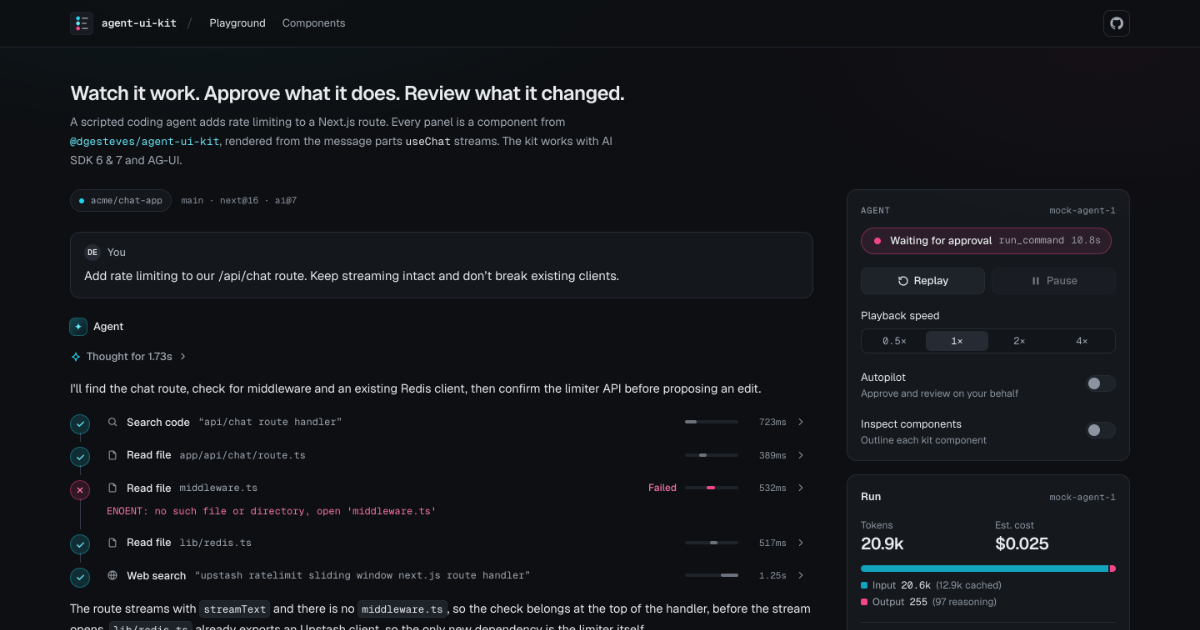
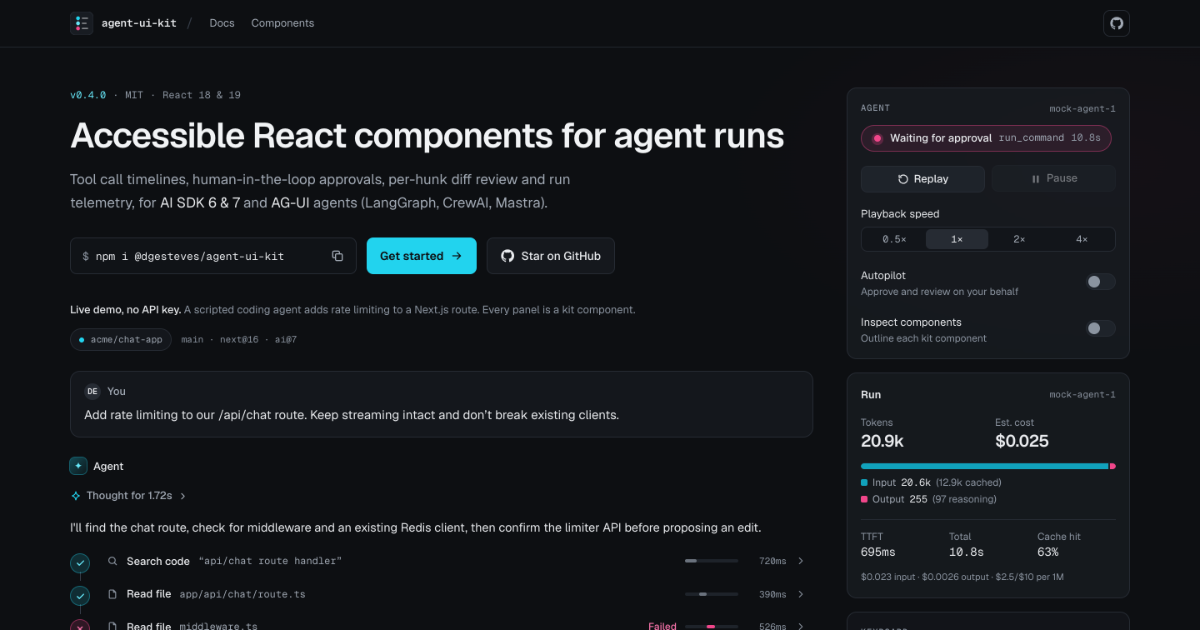
feat(playground): a link preview per page, a sitemap, and a title that says what it is
- The home page's title is now "agent-ui-kit: accessible React components
  for agent runs". Its preview is recaptured from the new headline.
- The docs pages, each component page and the components page draw their
  own preview with next/og: the page's title and summary in Geist, on the
  site's ink.
- sitemap.xml lists every page, and robots.txt points at it.
- The smoke test checks the new titles, the sitemap and robots.

diff --git a/examples/playground/lib/og.tsx b/examples/playground/lib/og.tsx
@@ -1,0 +1,114 @@
+import { readFileSync } from 'node:fs';
+import { join } from 'node:path';
+import { ImageResponse } from 'next/og';
+
+/*
+ * Link preview images for the docs and the components page, drawn when the site builds: the page's
+ * title and summary on the site's ink, in Geist. The home page's preview is a screenshot of the
+ * playground instead (app/opengraph-image.png, from `pnpm media og`).
+ */
+
+export const OG_SIZE = { width: 1200, height: 630 };
+
+// `next build` runs in examples/playground.
+const font = (path: string) => readFileSync(join(process.cwd(), 'node_modules/geist/dist/fonts', path));
+
+function Logo() {
+  return (
+    <svg width="44" height="44" viewBox="0 0 32 32">
+      <rect width="32" height="32" rx="8" fill="#181c22" stroke="#262b33" />
+      <path d="M11 9v14" stroke="#353c47" strokeWidth="2" strokeLinecap="round" />
+      <circle cx="11" cy="9" r="2.6" fill="#22d3ee" />
+      <circle cx="11" cy="16" r="2.6" fill="#67e8f9" />
+      <circle cx="11" cy="23" r="2.6" fill="#f0468a" />
+      <path d="M17 9h7M17 16h5M17 23h7" stroke="#e8eaed" strokeWidth="2" strokeLinecap="round" opacity=".5" />
+    </svg>
+  );
+}
+
+export function ogImage({
+  eyebrow,
+  title,
+  description,
+  code = false,
+}: {
+  eyebrow: string;
+  title: string;
+  description: string;
+  /** Set the title in Geist Mono, as a component's name. */
+  code?: boolean;
+}) {
+  return new ImageResponse(
+    <div
+      style={{
+        width: '100%',
+        height: '100%',
+        display: 'flex',
+        flexDirection: 'column',
+        padding: '64px 72px',
+        backgroundColor: '#0d0f12',
+        backgroundImage:
+          'radial-gradient(circle at 12% 0%, rgba(34, 211, 238, 0.16), transparent 46%), radial-gradient(circle at 96% 8%, rgba(240, 70, 138, 0.07), transparent 40%)',
+        color: '#e8eaed',
+        fontFamily: 'Geist',
+      }}
+    >
+      <div style={{ display: 'flex', alignItems: 'center', gap: 16 }}>
+        <Logo />
+        <span style={{ fontFamily: 'Geist Mono', fontSize: 26, fontWeight: 500, color: '#e8eaed' }}>agent-ui-kit</span>
+      </div>
+      <div style={{ display: 'flex', flexDirection: 'column', marginTop: 'auto' }}>
+        <span style={{ fontFamily: 'Geist Mono', fontSize: 24, color: '#67e8f9', letterSpacing: 1 }}>{eyebrow}</span>
+        <span
+          style={{
+            marginTop: 18,
+            fontFamily: code ? 'Geist Mono' : 'Geist',
+            fontSize: code ? 70 : 74,
+            fontWeight: code ? 500 : 600,
+            letterSpacing: code ? -1 : -2.5,
+            lineHeight: 1.05,
+            color: '#f1f3f5',
+          }}
+        >
+          {title}
+        </span>
+        <span
+          style={{
+            marginTop: 24,
+            maxWidth: 940,
+            fontSize: 30,
+            lineHeight: 1.4,
+            color: '#a1a9b4',
+          }}
+        >
+          {description}
+        </span>
+      </div>
+      <div
+        style={{
+          display: 'flex',
+          justifyContent: 'space-between',
+          alignItems: 'center',
+          marginTop: 48,
+          paddingTop: 28,
+          borderTop: '1px solid #262b33',
+          fontFamily: 'Geist Mono',
+          fontSize: 22,
+          color: '#8b94a0',
+        }}
+      >
+        <span>agent-ui-kit-demo.vercel.app</span>
+        <span style={{ color: '#c9d1d9' }}>AI SDK 6 & 7 · AG-UI</span>
+      </div>
+    </div>,
+    {
+      ...OG_SIZE,
+      fonts: [
+        { name: 'Geist', data: font('geist-sans/Geist-Regular.ttf'), weight: 400, style: 'normal' },
+        { name: 'Geist', data: font('geist-sans/Geist-SemiBold.ttf'), weight: 600, style: 'normal' },
+        { name: 'Geist Mono', data: font('geist-mono/GeistMono-Regular.ttf'), weight: 400, style: 'normal' },
+        { name: 'Geist Mono', data: font('geist-mono/GeistMono-Medium.ttf'), weight: 500, style: 'normal' },
+      ],
+    },
+  );
+}

diff --git a/examples/playground/app/layout.tsx b/examples/playground/app/layout.tsx
@@ -4,15 +4,17 @@ import type { ReactNode } from 'react';
 import { GeistMono } from './fonts';
 import './globals.css';
 
-const title = 'agent-ui-kit · playground';
+const title = 'agent-ui-kit: accessible React components for agent runs';
 const description =
-  'React components for agent-run UX: tool timelines, human-in-the-loop approvals, diff review and run telemetry, for AI SDK 6 & 7 and AG-UI. Watch a scripted agent run, no API key needed.';
+  'Tool call timelines, human-in-the-loop approvals, per-hunk diff review and run telemetry, for AI SDK 6 & 7 and AG-UI agents (LangGraph, CrewAI, Mastra). Watch a scripted agent run, no API key needed.';
 
-// app/opengraph-image.png is the top of docs/media/hero.png (`pnpm media og`).
+// app/opengraph-image.png is the top of docs/media/hero.png (`pnpm media og`); the docs and the
+// components page draw their own (lib/og.tsx).
 export const metadata: Metadata = {
   metadataBase: new URL('https://agent-ui-kit-demo.vercel.app'),
   title,
   description,
+  alternates: { canonical: '/' },
   openGraph: { type: 'website', siteName: 'agent-ui-kit', title, description, url: '/' },
   twitter: { card: 'summary_large_image', title, description },
 };

diff --git a/examples/playground/lib/metadata.ts b/examples/playground/lib/metadata.ts
@@ -1,9 +1,9 @@
 import type { Metadata } from 'next';
 
-// A page's own openGraph replaces the root's, file-based image included, so name the image again.
-const images = [{ url: '/opengraph-image.png', width: 1200, height: 630, alt: 'The agent-ui-kit playground mid-run.' }];
-
-/** Title, description, canonical URL and link previews for a page. */
+/**
+ * Title, description, canonical URL and link previews for a page. The preview image is each
+ * route's own opengraph-image (lib/og.tsx), which Next.js adds to `openGraph` and `twitter`.
+ */
 export function pageMetadata({
   title,
   description,
@@ -23,7 +23,7 @@ export function pageMetadata({
       canonical: path,
       ...(markdownPath ? { types: { 'text/markdown': markdownPath } } : {}),
     },
-    openGraph: { type: 'website', siteName: 'agent-ui-kit', title, description, url: path, images },
-    twitter: { card: 'summary_large_image', title, description, images },
+    openGraph: { type: 'website', siteName: 'agent-ui-kit', title, description, url: path },
+    twitter: { card: 'summary_large_image', title, description },
   };
 }

diff --git a/examples/playground/app/docs/components/[slug]/opengraph-image.tsx b/examples/playground/app/docs/components/[slug]/opengraph-image.tsx
@@ -1,0 +1,20 @@
+import { COMPONENTS, getComponent } from '@/lib/components';
+import { OG_SIZE, ogImage } from '@/lib/og';
+
+export const alt = 'An agent-ui-kit component';
+export const size = OG_SIZE;
+export const contentType = 'image/png';
+
+export function generateStaticParams() {
+  return COMPONENTS.map((c) => ({ slug: c.slug }));
+}
+
+export default async function Image({ params }: { params: Promise<{ slug: string }> }) {
+  const component = getComponent((await params).slug)!;
+  return ogImage({
+    eyebrow: 'Components',
+    title: component.name.startsWith('use') ? `${component.name}()` : `<${component.name} />`,
+    description: component.summary.replace(/`/g, ''),
+    code: true,
+  });
+}

diff --git a/examples/playground/app/sitemap.ts b/examples/playground/app/sitemap.ts
@@ -1,0 +1,15 @@
+import type { MetadataRoute } from 'next';
+import { componentHref, COMPONENTS } from '@/lib/components';
+import { GUIDES } from '@/lib/docs';
+import { SITE_URL } from '@/lib/site';
+
+// Every page, built with the site.
+export default function sitemap(): MetadataRoute.Sitemap {
+  const lastModified = new Date();
+  return [
+    { url: SITE_URL, lastModified, priority: 1 },
+    { url: `${SITE_URL}/gallery`, lastModified, priority: 0.8 },
+    ...GUIDES.map((doc) => ({ url: `${SITE_URL}${doc.href}`, lastModified, priority: 0.8 })),
+    ...COMPONENTS.map((c) => ({ url: `${SITE_URL}${componentHref(c.slug)}`, lastModified, priority: 0.7 })),
+  ];
+}

diff --git a/examples/playground/app/docs/[slug]/opengraph-image.tsx b/examples/playground/app/docs/[slug]/opengraph-image.tsx
@@ -1,0 +1,15 @@
+import { getGuide, GUIDES } from '@/lib/docs';
+import { OG_SIZE, ogImage } from '@/lib/og';
+
+export const alt = 'An agent-ui-kit docs page';
+export const size = OG_SIZE;
+export const contentType = 'image/png';
+
+export function generateStaticParams() {
+  return GUIDES.filter((doc) => doc.href !== '/docs').map((doc) => ({ slug: doc.slug }));
+}
+
+export default async function Image({ params }: { params: Promise<{ slug: string }> }) {
+  const doc = getGuide((await params).slug)!;
+  return ogImage({ eyebrow: 'Docs', title: doc.title, description: doc.description });
+}

diff --git a/examples/playground/app/gallery/page.tsx b/examples/playground/app/gallery/page.tsx
@@ -11,7 +11,7 @@ import { componentHref, getComponent } from '@/lib/components';
 import { pageMetadata } from '@/lib/metadata';
 
 export const metadata = pageMetadata({
-  title: 'agent-ui-kit · components',
+  title: 'Components · agent-ui-kit',
   description:
     'Every agent-ui-kit component in isolation: status, tool call timeline, approval card, diff review, run meter, sources, markdown, reasoning, a whole message and an AG-UI agent, with npm and shadcn install snippets.',
   path: '/gallery',

diff --git a/examples/playground/app/gallery/opengraph-image.tsx b/examples/playground/app/gallery/opengraph-image.tsx
@@ -1,0 +1,14 @@
+import { OG_SIZE, ogImage } from '@/lib/og';
+
+export const alt = 'agent-ui-kit: every component in isolation';
+export const size = OG_SIZE;
+export const contentType = 'image/png';
+
+export default function Image() {
+  return ogImage({
+    eyebrow: 'Components',
+    title: 'Every component, live',
+    description:
+      'Tool timelines, approvals, per-hunk diff review, run telemetry, sources and an AG-UI agent, each with its install command.',
+  });
+}

diff --git a/examples/playground/app/docs/opengraph-image.tsx b/examples/playground/app/docs/opengraph-image.tsx
@@ -1,0 +1,12 @@
+import { getGuide } from '@/lib/docs';
+import { OG_SIZE, ogImage } from '@/lib/og';
+
+const doc = getGuide('introduction')!;
+
+export const alt = `agent-ui-kit docs: ${doc.title}`;
+export const size = OG_SIZE;
+export const contentType = 'image/png';
+
+export default function Image() {
+  return ogImage({ eyebrow: 'Docs', title: doc.title, description: doc.description });
+}

diff --git a/examples/playground/app/robots.ts b/examples/playground/app/robots.ts
@@ -1,0 +1,10 @@
+import type { MetadataRoute } from 'next';
+import { SITE_URL } from '@/lib/site';
+
+export default function robots(): MetadataRoute.Robots {
+  return {
+    // The chat route is the optional live mode's model endpoint, not a page.
+    rules: { userAgent: '*', allow: '/', disallow: '/api/' },
+    sitemap: `${SITE_URL}/sitemap.xml`,
+  };
+}
